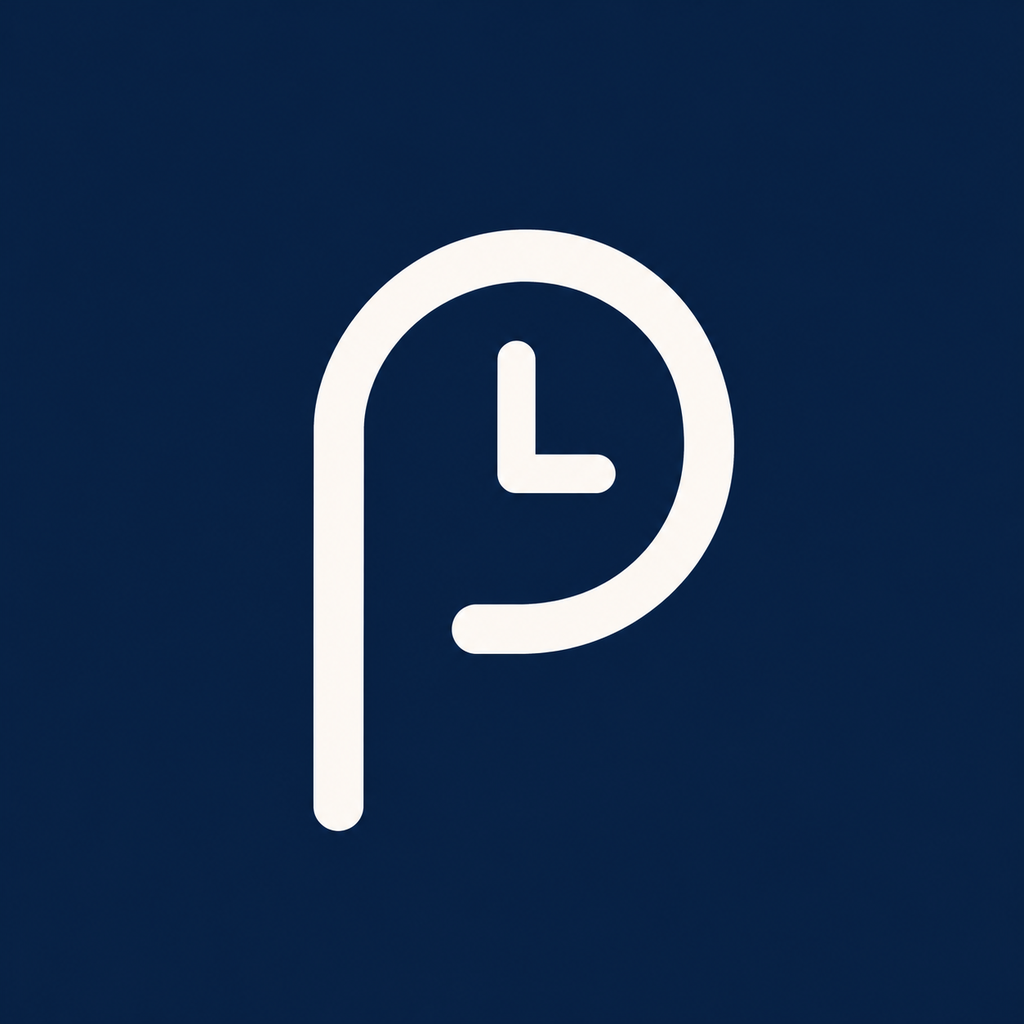
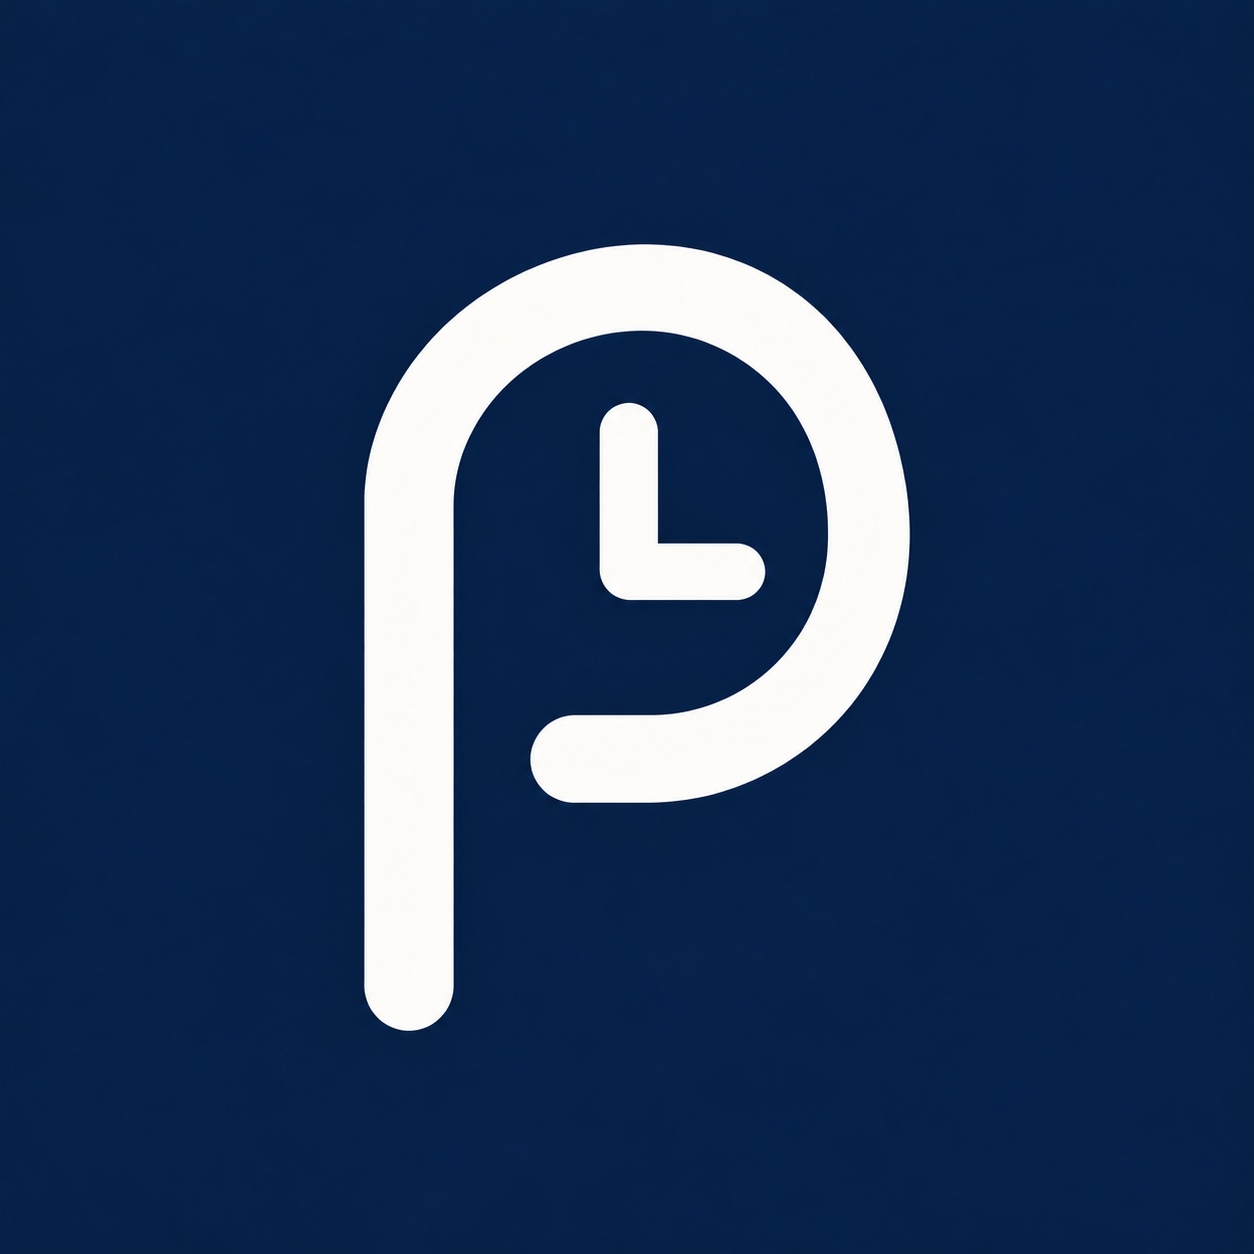
Make her feel alive all day — morning get-ready, freed-time nudges, prep profile
Three threads of one stakeholder note: the app is passive, she pings 15
minutes before a meeting and then disappears.

- Morning "time to get ready" nudge. The background task now looks at
  the first event today and fires at `startsAt − travel − prepTime`
  instead of the generic "you have 3 meetings" briefing. A user with no
  prep time entered still gets the 30-minute default.

- Freed-time during the day. The task also detects natural 45+ min
  gaps during work hours when there are open tasks on the list, and
  sends one warm "want to knock out X?" nudge per hour slot. The
  existing early-end nudge (fireFreedTimeNotice) still covers meetings
  that end early.

- Prep-time in the profile. New question in onboarding ("how long do
  you need to get ready in the morning?"), propagated through the voice
  snapshot so the agent can answer "when should I start getting ready"
  with the user's own number rather than a generic 30 minutes.

Also lifts the voice-recording ceiling from 25s to 3 min, with the
server text limit matched up to 8000 chars — a real 3-minute Hebrew
dump fit in the request body comfortably.

diff --git a/frontend/src/lib/proactive.ts b/frontend/src/lib/proactive.ts
@@ -5,6 +5,7 @@ import { api, type Event, type Task } from './api';
 import { t } from './i18n';
 import { scheduleReminder } from './notifications';
 import { storage, type Profile } from './storage';
+import { estimateTravelMinutes } from './travel';
 
 // Proactive pattern-based notifications.
 //
@@ -126,6 +127,60 @@ TaskManager.defineTask(PROACTIVE_TASK, async () => {
     const tomorrow = tomorrowStr();
     const hour = new Date().getHours();
 
+    // Morning "get ready" nudge — the stakeholder's one hard ask.
+    //
+    // Runs in the hour BEFORE wake time: iOS wakes background fetch every
+    // ~15–30 min, so the first firing after sleepEndHour-1 is our chance to
+    // schedule a notification at the exact moment the user needs to start
+    // moving. The math: firstEvent.startsAt − travelMinutes − prepTime. If
+    // the result is in the past (the first event is close, or there is no
+    // travel), the ordinary 15-min-before reminder has it covered.
+    //
+    // We also still fall through to the generic briefing below when there
+    // is no first-event-with-location — a user with only tasks or in-office
+    // meetings should still hear from her in the morning.
+    if (last?.type !== `getready-${today}` && hour >= profile.sleepEndHour - 1 && hour <= profile.sleepEndHour + 1) {
+      const agenda = await api.agendaForDate(today);
+      const liveEvents = agenda.events
+        .filter((e) => !e.deletedAt && !e.endedAt)
+        .sort((a, b) => new Date(a.startsAt).getTime() - new Date(b.startsAt).getTime());
+      const first = liveEvents[0];
+      if (first) {
+        const startMs = new Date(first.startsAt).getTime();
+        const travelMin = await estimateTravelMinutes(first.location) ?? 0;
+        const prepMin = profile.prepTimeMinutes ?? 30;
+        const leaveReadyMs = startMs - (travelMin + prepMin) * 60_000;
+        // Only schedule if the nudge still has somewhere to land ahead of
+        // the event — otherwise the normal event reminder is enough.
+        if (leaveReadyMs > Date.now() + 60_000) {
+          const firstTime = new Date(startMs).toLocaleTimeString(undefined, {
+            hour: '2-digit',
+            minute: '2-digit',
+          });
+          const body = travelMin > 0
+            ? t('notify.morningGetReadyWithTravel', {
+                title: first.title,
+                time: firstTime,
+                travel: travelMin,
+                prep: prepMin,
+              })
+            : t('notify.morningGetReady', {
+                title: first.title,
+                time: firstTime,
+                prep: prepMin,
+              });
+          await scheduleReminder({
+            rowId: `proactive-getready-${today}`,
+            title: t('notify.morningTitle'),
+            body,
+            at: new Date(leaveReadyMs),
+          });
+          await setLastRun(today, `getready-${today}`);
+          return BackgroundFetch.BackgroundFetchResult.NewData;
+        }
+      }
+    }
+
     // Morning briefing: once per day, around wake time
     if (last?.date !== today && last?.type !== `briefing-${today}` && hour >= profile.sleepEndHour && hour < profile.sleepEndHour + 2) {
       const agenda = await api.agendaForDate(today);
@@ -146,6 +201,48 @@ TaskManager.defineTask(PROACTIVE_TASK, async () => {
         });
         await setLastRun(today, `briefing-${today}`);
         return BackgroundFetch.BackgroundFetchResult.NewData;
+      }
+    }
+
+    // "Time just opened up" — the second half of the stakeholder's ask. A
+    // user whose next meeting is still an hour away, with open tasks on
+    // their list, should hear from her once per such window rather than
+    // waking up to it or finding out when they check.
+    //
+    // We fire during the user's work hours only, dedup by hour (so a
+    // 90-minute window doesn't nudge twice), and skip when the gap is
+    // actually just the end of the day. A smaller than 45-minute window
+    // isn't worth interrupting for.
+    if (hour >= profile.workStartHour && hour < profile.workEndHour) {
+      const slot = `freed-${today}-${hour}`;
+      if (last?.type !== slot) {
+        const agenda = await api.agendaForDate(today);
+        const live = agenda.events
+          .filter((e) => !e.deletedAt && !e.endedAt)
+          .sort((a, b) => new Date(a.startsAt).getTime() - new Date(b.startsAt).getTime());
+        const now = Date.now();
+        const next = live.find((e) => new Date(e.startsAt).getTime() > now);
+        const gapMin = next
+          ? Math.round((new Date(next.startsAt).getTime() - now) / 60_000)
+          : Math.max(0, (profile.workEndHour - hour) * 60);
+
+        const openTasks = agenda.tasks.filter((task) => !task.deletedAt && !task.isDone);
+        if (gapMin >= 45 && openTasks.length > 0) {
+          const nextLabel = next
+            ? `${new Date(next.startsAt).toLocaleTimeString(undefined, { hour: '2-digit', minute: '2-digit' })} ${next.title}`
+            : null;
+          const body = nextLabel
+            ? t('notify.freedBeforeNext', { minutes: gapMin, next: nextLabel, task: openTasks[0]!.title })
+            : t('notify.freedOpen', { minutes: gapMin, task: openTasks[0]!.title });
+          await scheduleReminder({
+            rowId: `proactive-${slot}`,
+            title: t('notify.freedTitle'),
+            body,
+            at: new Date(now + 2000),
+          });
+          await setLastRun(today, slot);
+          return BackgroundFetch.BackgroundFetchResult.NewData;
+        }
       }
     }
 

diff --git a/frontend/src/lib/i18n/he.ts b/frontend/src/lib/i18n/he.ts
@@ -468,6 +468,11 @@ export const he: Dict = {
   'notify.morningPacked': 'יום עמוס לפניך: {{events}} פגישות ו-{{tasks}} משימות. תכנני הפסקות.',
   'notify.morningModerate': '{{events}} פגישות ו-{{tasks}} משימות היום. יום טוב!',
   'notify.morningLight': 'יום קליל: {{events}} פגישות ו-{{tasks}} משימות.',
+  'notify.morningGetReady': 'היי, הגיע הזמן להתחיל להתארגן — {{title}} ב-{{time}}, ולקחת לך בערך {{prep}} דק׳ להתארגן.',
+  'notify.morningGetReadyWithTravel': 'היי, הגיע הזמן להתחיל להתארגן — {{title}} ב-{{time}}, כולל {{travel}} דק׳ נסיעה ו-{{prep}} דק׳ התארגנות.',
+  'notify.freedTitle': 'התפנה לך זמן',
+  'notify.freedBeforeNext': 'יש לך {{minutes}} דק׳ עד {{next}} — זמן טוב לקפוץ על "{{task}}" מהרשימה?',
+  'notify.freedOpen': 'יש לך {{minutes}} דק׳ פנויות — אולי "{{task}}"?',
   'notify.eveningTitle': 'הצצה למחר',
   'notify.eveningPacked': 'מחר עמוס — {{events}} פגישות ו-{{tasks}} משימות. אולי להתכונן הערב?',
   'notify.eveningBackToBack': 'מחר יש לך פגישות רצופות. נסי לשלב הפסקה.',
@@ -542,6 +547,9 @@ export const he: Dict = {
   'onboarding.sleep.fit.good': '{{hours}} שעות בלילה — בול בטווח המומלץ.',
   'onboarding.sleep.fit.short': '{{hours}} שעות בלילה — קצת פחות מהמומלץ.',
   'onboarding.sleep.fit.long': '{{hours}} שעות בלילה — יותר מהטווח הרגיל.',
+  'onboarding.prepTime.title': 'כמה זמן אתה צריך להתארגן בבוקר?',
+  'onboarding.prepTime.body': 'כולל מקלחת, לבוש, קפה, ארוחת בוקר — מהרגע שאתה קם ועד שאתה יוצא מהבית.',
+  'onboarding.prepTime.minutes': '{{count}} דק׳',
   'onboarding.buffer.title': 'כמה זמן להשאיר בין פגישות?',
   'onboarding.buffer.body': 'זמן להגיע, לסכם דברים, או סתם לנשום.',
   'onboarding.buffer.none': 'ברצף',

diff --git a/frontend/src/screens/AssistantScreen.tsx b/frontend/src/screens/AssistantScreen.tsx
@@ -20,9 +20,9 @@ import type { NativeStackNavigationProp } from '@react-navigation/native-stack';
 import * as Haptics from 'expo-haptics';
 import { LinearGradient } from 'expo-linear-gradient';
 import Svg, { Circle, Path } from 'react-native-svg';
-import { X, Mic, Undo2, RotateCcw, Send, Sparkles, CheckCheck, Check, Clock, ArrowUpRight, ArrowDownLeft, Sun, Cloud, CloudRain, CloudLightning, Snowflake, CloudSun, Wind, CloudFog, TrendingUp, TrendingDown, Minus, Star, CalendarDays, ListTodo, ShoppingCart, Wallet, MapPin, Navigation, CalendarClock } from 'lucide-react-native';
+import { X, Mic, Undo2, RotateCcw, Send, CheckCheck, Check, Clock, ArrowUpRight, ArrowDownLeft, Sun, Cloud, CloudRain, CloudLightning, Snowflake, CloudSun, Wind, CloudFog, TrendingUp, TrendingDown, Minus, Star, CalendarDays, ListTodo, ShoppingCart, Wallet, MapPin, Navigation, CalendarClock } from 'lucide-react-native';
 
-import { Glow, LitDisc } from '../components/ui';
+import { Glow } from '../components/ui';
 import { api } from '../lib/api';
 import { useVoiceSession, type Line } from '../lib/useVoiceSession';
 import type { RootStackParamList } from '../navigation';
@@ -465,9 +465,7 @@ export default function AssistantScreen() {
    */
   const spark = (
     <PopIn from={0.5}>
-      <LitDisc colors={VOICE.accentGradient} style={styles.spark}>
-        <Sparkles color={NIGHT.glyph} size={17} strokeWidth={2.2} />
-      </LitDisc>
+      <Image source={require('../../assets/planzi-mark.png')} style={styles.spark} />
     </PopIn>
   );
 
@@ -1115,7 +1113,16 @@ const styles = themed(() =>
      * than the disc's own last stop, so every line of hers is signed by the thing
      * you talk to.
      */
-    spark: { shadowColor: VOICE.accentGradient[1] },
+    spark: {
+      width: 34,
+      height: 34,
+      borderRadius: 17,
+      shadowColor: VOICE.accentGradient[1],
+      shadowOpacity: 0.35,
+      shadowRadius: 8,
+      shadowOffset: { width: 0, height: 2 },
+      elevation: 4,
+    },
     herBubble: {
       ...edge,
       backgroundColor: VOICE.her,

diff --git a/frontend/src/lib/i18n/en.ts b/frontend/src/lib/i18n/en.ts
@@ -481,6 +481,11 @@ export const en = {
   'notify.morningPacked': 'Packed day ahead: {{events}} meetings and {{tasks}} tasks. Plan your breaks.',
   'notify.morningModerate': '{{events}} meetings and {{tasks}} tasks today. You\'ve got this.',
   'notify.morningLight': 'A light day: {{events}} meetings and {{tasks}} tasks.',
+  'notify.morningGetReady': 'Time to start getting ready — {{title}} at {{time}}, and it takes you about {{prep}} min to be out the door.',
+  'notify.morningGetReadyWithTravel': 'Time to start getting ready — {{title}} at {{time}}, including {{travel}} min travel and {{prep}} min prep.',
+  'notify.freedTitle': 'Time just opened up',
+  'notify.freedBeforeNext': 'You have {{minutes}} min before {{next}} — want to knock out "{{task}}"?',
+  'notify.freedOpen': 'You have {{minutes}} min free — maybe "{{task}}"?',
   'notify.eveningTitle': 'Tomorrow\'s heads-up',
   'notify.eveningPacked': 'Tomorrow is packed — {{events}} meetings and {{tasks}} tasks. Maybe prep tonight?',
   'notify.eveningBackToBack': 'You have back-to-back meetings tomorrow. Build in a breather if you can.',
@@ -558,6 +563,9 @@ export const en = {
   'onboarding.sleep.fit.good': '{{hours}}h a night — right on target.',
   'onboarding.sleep.fit.short': '{{hours}}h a night — a little short of that.',
   'onboarding.sleep.fit.long': '{{hours}}h a night — comfortably more than that.',
+  'onboarding.prepTime.title': 'How long do you need to get ready in the morning?',
+  'onboarding.prepTime.body': 'Shower, dress, coffee, breakfast — from the moment you wake up until you walk out the door.',
+  'onboarding.prepTime.minutes': '{{count}} min',
   'onboarding.buffer.title': 'How much room between meetings?',
   'onboarding.buffer.body': 'Time to travel, write things up, or breathe.',
   'onboarding.buffer.none': 'Back to back',

diff --git a/backend/src/modules/voice/agent.ts b/backend/src/modules/voice/agent.ts
@@ -118,6 +118,13 @@ export const profileSchema = z.object({
   sleepEndHour: z.number().int().min(0).max(23).default(7),
   bufferMinutes: z.number().int().min(0).max(120).default(15),
   taskReminderMinutes: z.number().int().min(0).max(1440).default(15),
+  /**
+   * How long the user needs to get ready in the morning (shower, dress,
+   * coffee). Used by the agent when the user asks "when should I start
+   * getting ready" or when scheduling a morning event — she will suggest
+   * `startsAt - prepTimeMinutes - travelTime` as the heads-up moment.
+   */
+  prepTimeMinutes: z.number().int().min(0).max(240).default(30),
   eventTypes: z.array(z.string().max(40)).max(20).default([]),
   fixedCommitments: z.string().max(500).default(''),
   workDays: z.array(z.number().int().min(0).max(6)).max(7).optional(),
@@ -1663,6 +1670,7 @@ function describeProfile(p: Profile): string {
     `- Asleep ${hour(p.sleepStartHour)}–${hour(p.sleepEndHour)}. Never propose anything in there.`,
     `- Likes ${p.bufferMinutes} minutes between one thing and the next.`,
     `- Task reminders fire ${p.taskReminderMinutes === 0 ? 'exactly at the due time' : `${p.taskReminderMinutes} minutes before the due time`}. Mention this when creating a dated task so they know what to expect.`,
+    `- Needs ${p.prepTimeMinutes} minutes to get ready in the morning (shower, dress, coffee). When they ask "when should I leave" or "when should I start getting ready" for a morning event, subtract both this prep time and the travel time from the event's start. The app also fires a warm "time to start getting ready" nudge automatically at that moment.`,
   ];
   if (p.eventTypes.length) {
     lines.push(`- Their days are mostly: ${p.eventTypes.join(', ')}.`);

diff --git a/frontend/src/components/ProfileFields.tsx b/frontend/src/components/ProfileFields.tsx
@@ -33,6 +33,13 @@ import { t, isRTL, alignStart, locale } from '../lib/i18n';
 export const BUFFERS = [0, 10, 15, 30];
 
 /**
+ * Offered morning prep times, in minutes. The spread covers the three real
+ * mornings: a quick shower-and-go (15), a standard "coffee and dress" (30),
+ * and a slower one that includes breakfast or exercise (60/90).
+ */
+export const PREP_TIMES = [15, 30, 45, 60, 90] as const;
+
+/**
  * Offered lead times for task reminders, in minutes. 0 is "exactly at the due
  * minute"; the rest range from a nudge to a full day's notice, so a task can
  * fire the moment it is due or well before, depending on the person.
@@ -256,6 +263,31 @@ function taskLeadLabel(minutes: number): string {
   if (minutes >= 1440) return t('onboarding.reminder.days', { count: Math.round(minutes / 1440) });
   if (minutes >= 60) return t('onboarding.reminder.hours', { count: Math.round(minutes / 60) });
   return t('onboarding.reminder.minutes', { count: minutes });
+}
+
+/** How long it takes the user to get ready in the morning. */
+export function PrepTimePicker({
+  value,
+  onChange,
+  surface = NIGHT.card,
+}: {
+  value: number;
+  onChange: (minutes: number) => void;
+  surface?: string;
+}) {
+  return (
+    <View style={styles.chipWrap}>
+      {PREP_TIMES.map((minutes) => (
+        <Chip
+          key={minutes}
+          label={t('onboarding.prepTime.minutes', { count: minutes })}
+          active={minutes === value}
+          onPress={() => onChange(minutes)}
+          surface={surface}
+        />
+      ))}
+    </View>
+  );
 }
 
 /** How much room to leave between one thing and the next. */

diff --git a/frontend/src/screens/OnboardingScreen.tsx b/frontend/src/screens/OnboardingScreen.tsx
@@ -46,6 +46,7 @@ import {
   HourRangePicker,
   BufferPicker,
   TaskLeadPicker,
+  PrepTimePicker,
   EventTypePicker,
   GenderPicker,
   SleepInsight,
@@ -108,6 +109,7 @@ type StepId =
   | 'place'
   | 'work'
   | 'sleep'
+  | 'prepTime'
   | 'buffer'
   | 'reminder'
   | 'types'
@@ -126,6 +128,7 @@ const STEPS: StepId[] = [
   'sleep',
   'sleepQuality',
   'assistanceStyle',
+  'prepTime',
   'buffer',
   'reminder',
   'types',
@@ -150,6 +153,7 @@ const STEP_SKIN: Record<StepId, { tile: AuraKey; Icon: typeof Mic }> = {
   place: { tile: 'green', Icon: Globe },
   work: { tile: 'green', Icon: Clock },
   sleep: { tile: 'blue', Icon: Moon },
+  prepTime: { tile: 'yellow', Icon: Timer },
   buffer: { tile: 'yellow', Icon: Timer },
   reminder: { tile: 'blue', Icon: Bell },
   types: { tile: 'green', Icon: CalendarDays },
@@ -828,6 +832,15 @@ export default function OnboardingScreen({ onDone }: { onDone: () => void }) {
                 />
               </StepIn>
             </>
+          ) : null}
+
+          {step === 'prepTime' ? (
+            <StepIn heading={heading} delay={ANSWERS_AT}>
+              <PrepTimePicker
+                value={profile.prepTimeMinutes}
+                onChange={(prepTimeMinutes) => patch({ prepTimeMinutes })}
+              />
+            </StepIn>
           ) : null}
 
           {step === 'buffer' ? (

diff --git a/frontend/src/lib/storage.ts b/frontend/src/lib/storage.ts
@@ -69,6 +69,16 @@ export type Profile = {
    * the exact due time; a positive value is the lead time.
    */
   taskReminderMinutes: number;
+  /**
+   * How long the user needs between "ok, time to start getting ready" and
+   * "walking out the door" — shower, dress, breakfast, pack, however they
+   * do it. Used by the morning check-in to time the "start getting ready"
+   * nudge so it lands at `firstEvent.startsAt − travelMinutes − prepTime`.
+   * The stakeholder's one hard note: this is personal and non-negotiable,
+   * because 30 minutes is a 15-minute shower for one person and a scramble
+   * for another.
+   */
+  prepTimeMinutes: number;
   eventTypes: EventType[];
   /** Whatever repeats and cannot move, in the user's own words. */
   fixedCommitments: string;
@@ -89,6 +99,7 @@ export const defaultProfile: Profile = {
   gender: 'unspecified',
   bufferMinutes: 15,
   taskReminderMinutes: 15,
+  prepTimeMinutes: 30,
   eventTypes: ['work'],
   fixedCommitments: '',
   workDays: [0, 1, 2, 3, 4],

diff --git a/frontend/src/lib/useVoiceSession.ts b/frontend/src/lib/useVoiceSession.ts
@@ -120,8 +120,14 @@ const SPEECH_DB = -35;
 const SILENCE_MS = 1100;
 /** Don't cut anyone off mid-thought, even if they started quietly. */
 const MIN_LISTEN_MS = 900;
-/** A recording this long is someone who forgot to stop, or a noisy room. */
-const MAX_LISTEN_MS = 25_000;
+/**
+ * The ceiling for a single turn. Three minutes is long enough for a real
+ * dump — "here's everything I need to do this week" — without becoming the
+ * forgotten-mic recording that fills a transcription bill with silence.
+ * The silence detector still ends the turn as soon as the user stops talking;
+ * this only matters when they genuinely keep going.
+ */
+const MAX_LISTEN_MS = 180_000;
 const POLL_MS = 150;
 /** Metering is optional; if none arrives by now, fall back to tap-to-stop. */
 const METERING_GRACE_MS = 1200;

diff --git a/backend/src/modules/voice/router.ts b/backend/src/modules/voice/router.ts
@@ -47,7 +47,7 @@ const turnBody = z.object({
    * the turn succeeds and she asks for it again, which is what a person would
    * do.
    */
-  text: z.string().max(2000),
+  text: z.string().max(8000),
   /**
    * The language of the opening greeting — the one turn with no user words to
    * mirror. Every real turn is answered in whatever language the user spoke.
@@ -69,7 +69,7 @@ const turnBody = z.object({
     .array(
       z.object({
         role: z.enum(['user', 'assistant']),
-        content: z.string().min(1).max(2000),
+        content: z.string().min(1).max(8000),
       }),
     )
     .max(40)
